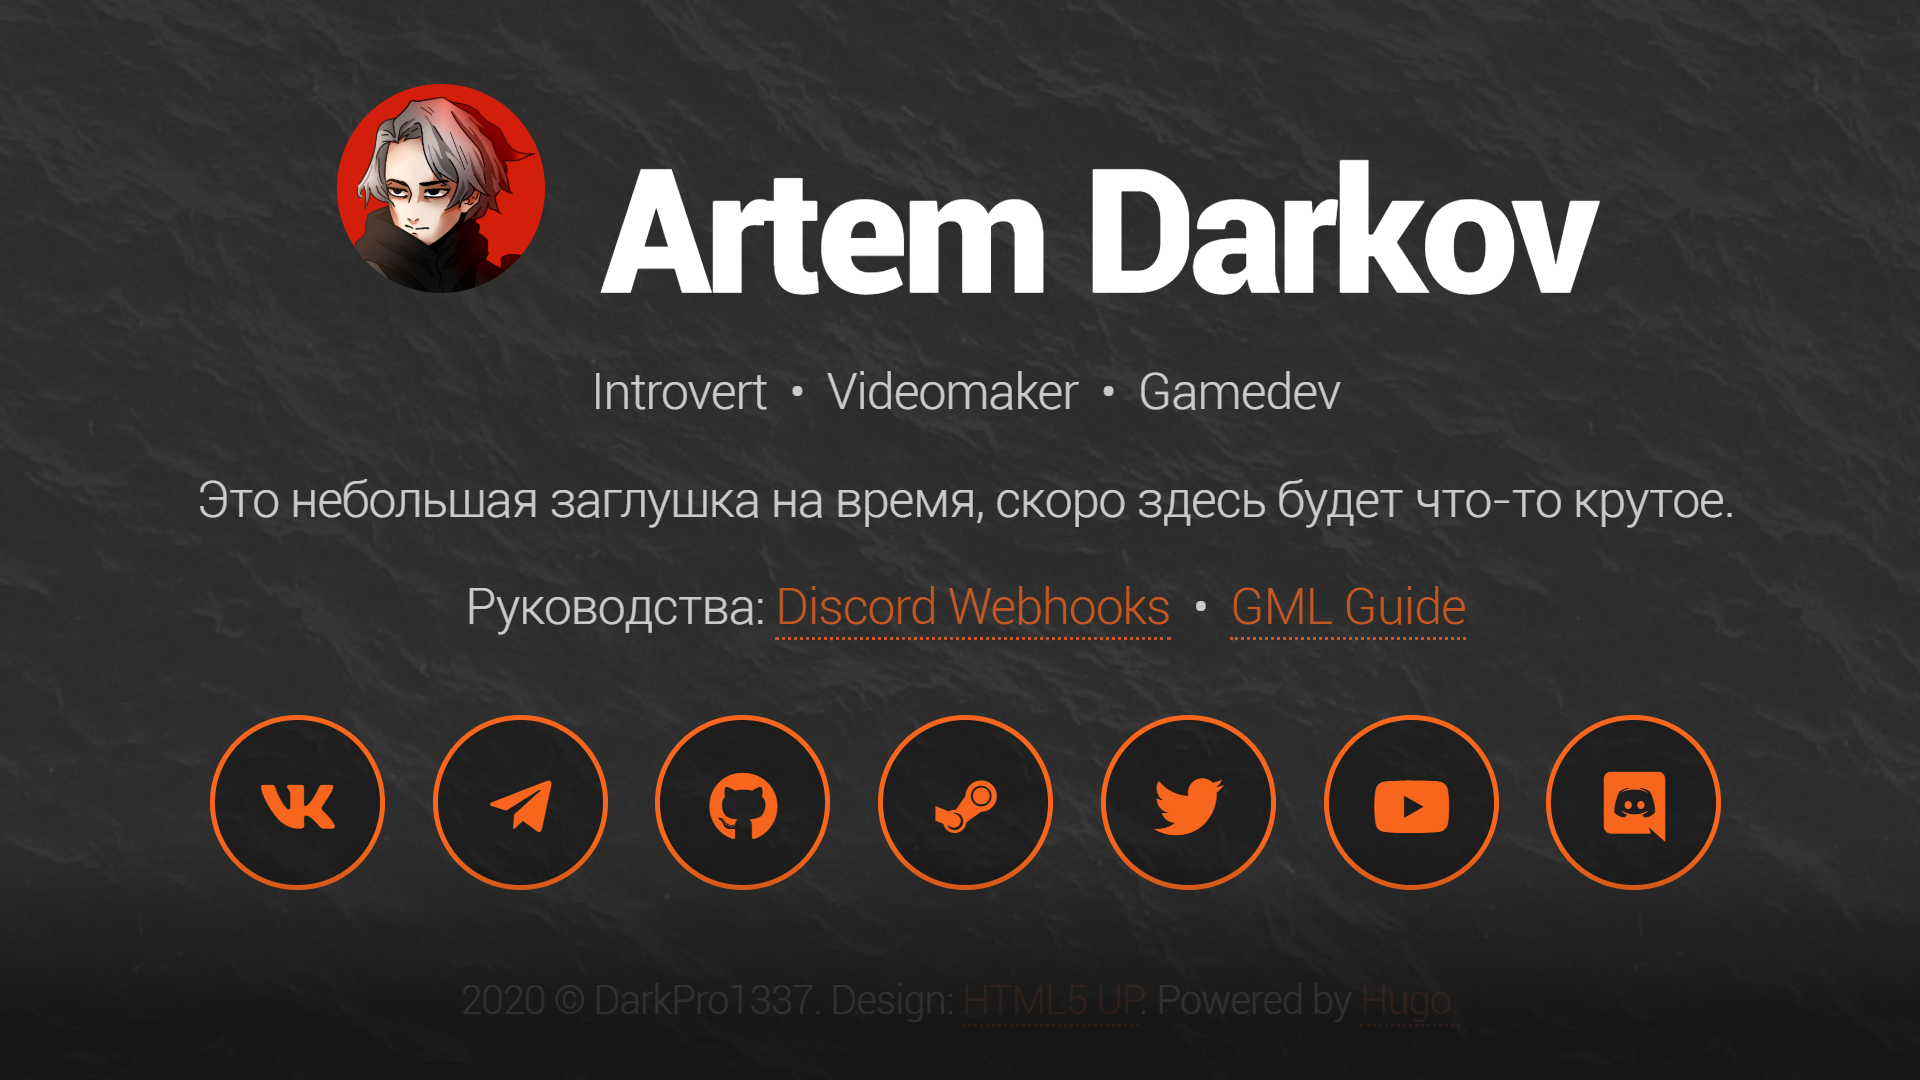
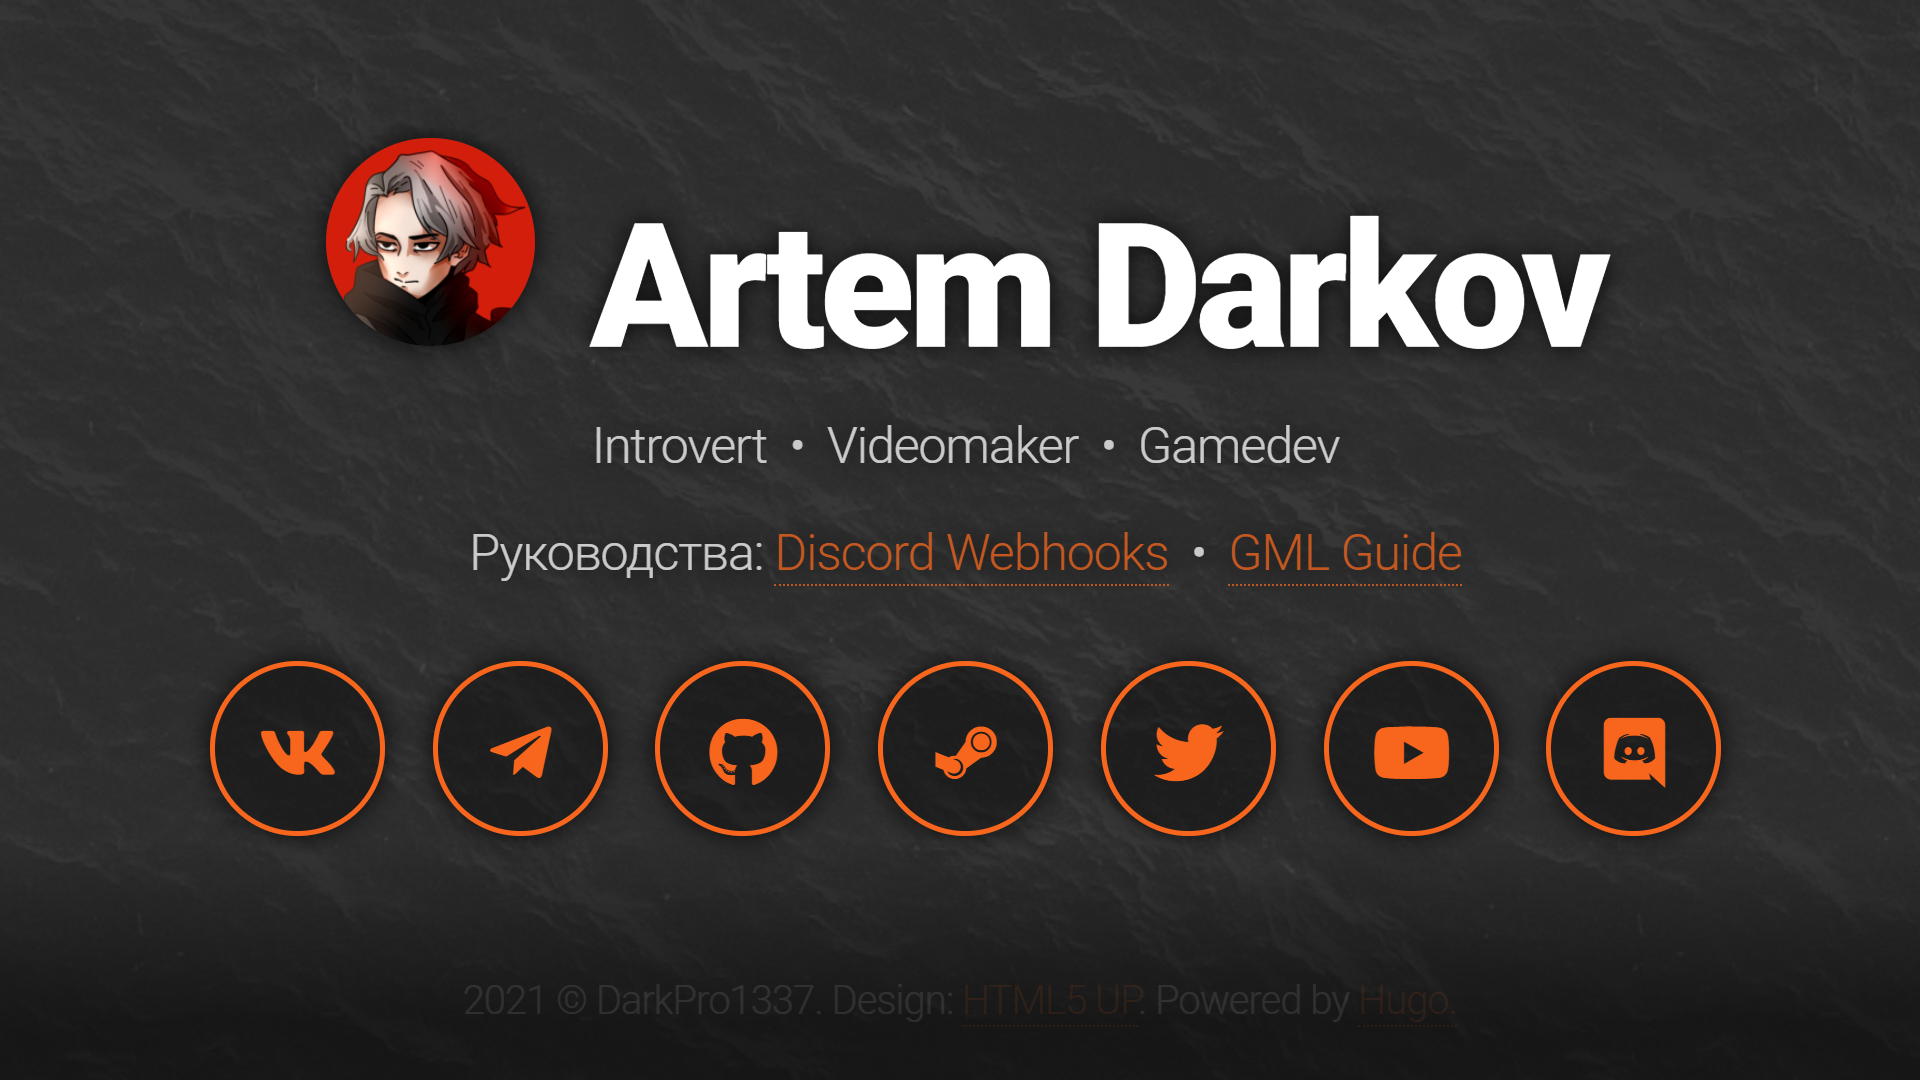
minor changes

Changed region(s): [[0.0938, 0.1528, 0.9062, 0.5806], [0.0938, 0.6111, 0.9062, 0.825], [0.1562, 0.0611, 0.2812, 0.3361]]

diff --git a/index.html b/index.html
@@ -2,7 +2,7 @@
 
 <html>
 	<head>
-	<meta name="generator" content="Hugo 0.74.3" />
+	<meta name="generator" content="Hugo 0.87.0" />
 		<title>Artem Darkov (DarkPro1337)</title>
 		<meta charset="utf-8" />
 		<meta name="viewport" content="width=device-width, initial-scale=1" />
@@ -35,7 +35,8 @@
     
      <link rel="shortcut icon" type="image/x-icon" href="https://darkpro1337.github.io/favicon.ico">
      <link rel="icon" type="image/x-icon" href="https://darkpro1337.github.io/favicon.ico">
-    
+	
+
 	</head>
 	<body class="loading">
 		<div id="wrapper">
@@ -46,7 +47,7 @@
 				
 					<header id="header">
 						<h1><img class="avatar" src="logo.png" align="middle"> Artem Darkov</h1>
-						<p>Introvert &nbsp;&bull;&nbsp; Videomaker &nbsp;&bull;&nbsp; Gamedev<br><p><strong>Это небольшая заглушка на время, скоро здесь будет что-то крутое.</strong></p></p>
+						<p>Introvert &nbsp;&bull;&nbsp; Videomaker &nbsp;&bull;&nbsp; Gamedev<br></p>
 						<p><strong>Руководства:</strong> <a href="https://darkpro1337.github.io/discord-webhooks" target="_blank" title="Руководство по вебхукам Discord">Discord Webhooks</a> &nbsp;&bull;&nbsp; <a href="https://darkpro1337.github.io/gml-guide/" target="_blank" title="Руководство по языку GameMaker Language">GML Guide</a></p>
 						<nav>
 							<ul>
@@ -75,7 +76,7 @@
 
 				
 					<footer id="footer">
-						<span class="copyright">2020 &copy; DarkPro1337.  Design: <a href="http://html5up.net">HTML5 UP</a>. Powered by <a href="https://www.gohugo.io/">Hugo.</a></span>
+						<span class="copyright">2021 &copy; DarkPro1337.  Design: <a href="http://html5up.net">HTML5 UP</a>. Powered by <a href="https://www.gohugo.io/">Hugo.</a></span>
 					</footer>
 
 			</div>

diff --git a/css/main.css b/css/main.css
@@ -30,7 +30,8 @@
     margin-bottom: 0px;
     border-radius: 1em;
     margin-right: 0.1em;
-    webkit pointer-events: stroke;
+	pointer-events: stroke;
+	box-shadow: 0px 0px 10px rgb(0 0 0 / 75%);
 }
 
 	article, aside, details, figcaption, figure, footer, header, hgroup, menu, nav, section {
@@ -539,12 +540,14 @@
 			font-weight: 900;
 			letter-spacing: -0.035em;
 			line-height: 1em;
+			text-shadow: 0 0 10px rgb(0 0 0 / 75%);
 		}
 
 		#header p {
 			font-size: 1.25em;
 			margin: 0.75em 0 0.25em 0;
 			opacity: 0.75;
+			text-shadow: 0 0 10px #000;
 		}
 
 		#header nav {
@@ -666,6 +669,7 @@
 					text-align: center;
 					top: 0;
 					width: 2.5em;
+					box-shadow: 0px 0px 10px rgb(0 0 0 / 75%);
 				}
 
 				#header nav a:hover {
